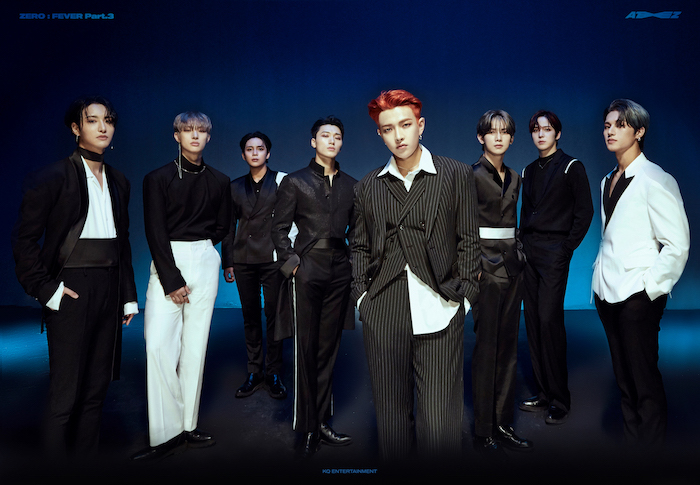
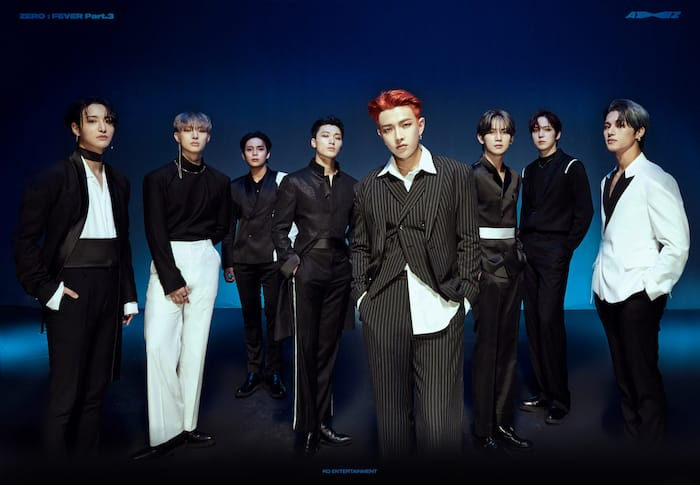
Add new group picture (#1)

diff --git a/lib/ui/home.dart b/lib/ui/home.dart
@@ -32,7 +32,7 @@ class Home extends StatelessWidget {
 
 class _HomeAppBar extends StatelessWidget {
   static const String ateezLogo = 'assets/images/misc/ateez_logo.png';
-  static const String ateezGroupPic = 'assets/images/misc/ateez_group.jpg';
+  static const String ateezGroupPic = 'assets/images/misc/ateez_group_1.jpg';
 
   final TextEditingController controller = TextEditingController();
 
@@ -304,7 +304,7 @@ class _SearchQueryResultListItem extends StatelessWidget {
                             fontWeight: FontWeight.bold,
                             color: song.lyrics.isEmpty
                                 ? Theme.of(context).disabledColor
-                                : Theme.of(context).textTheme.bodyText1?.color,
+                                : Theme.of(context).textTheme.bodyLarge?.color,
                           ),
                         ),
                       ),

diff --git a/lib/ui/album_page.dart b/lib/ui/album_page.dart
@@ -180,7 +180,7 @@ class _AlbumPageListItemTitle extends StatelessWidget {
           fontWeight: FontWeight.bold,
           color: song.lyrics.isEmpty
               ? Theme.of(context).disabledColor
-              : Theme.of(context).textTheme.bodyText1?.color,
+              : Theme.of(context).textTheme.bodyLarge?.color,
         ),
       ),
     );
